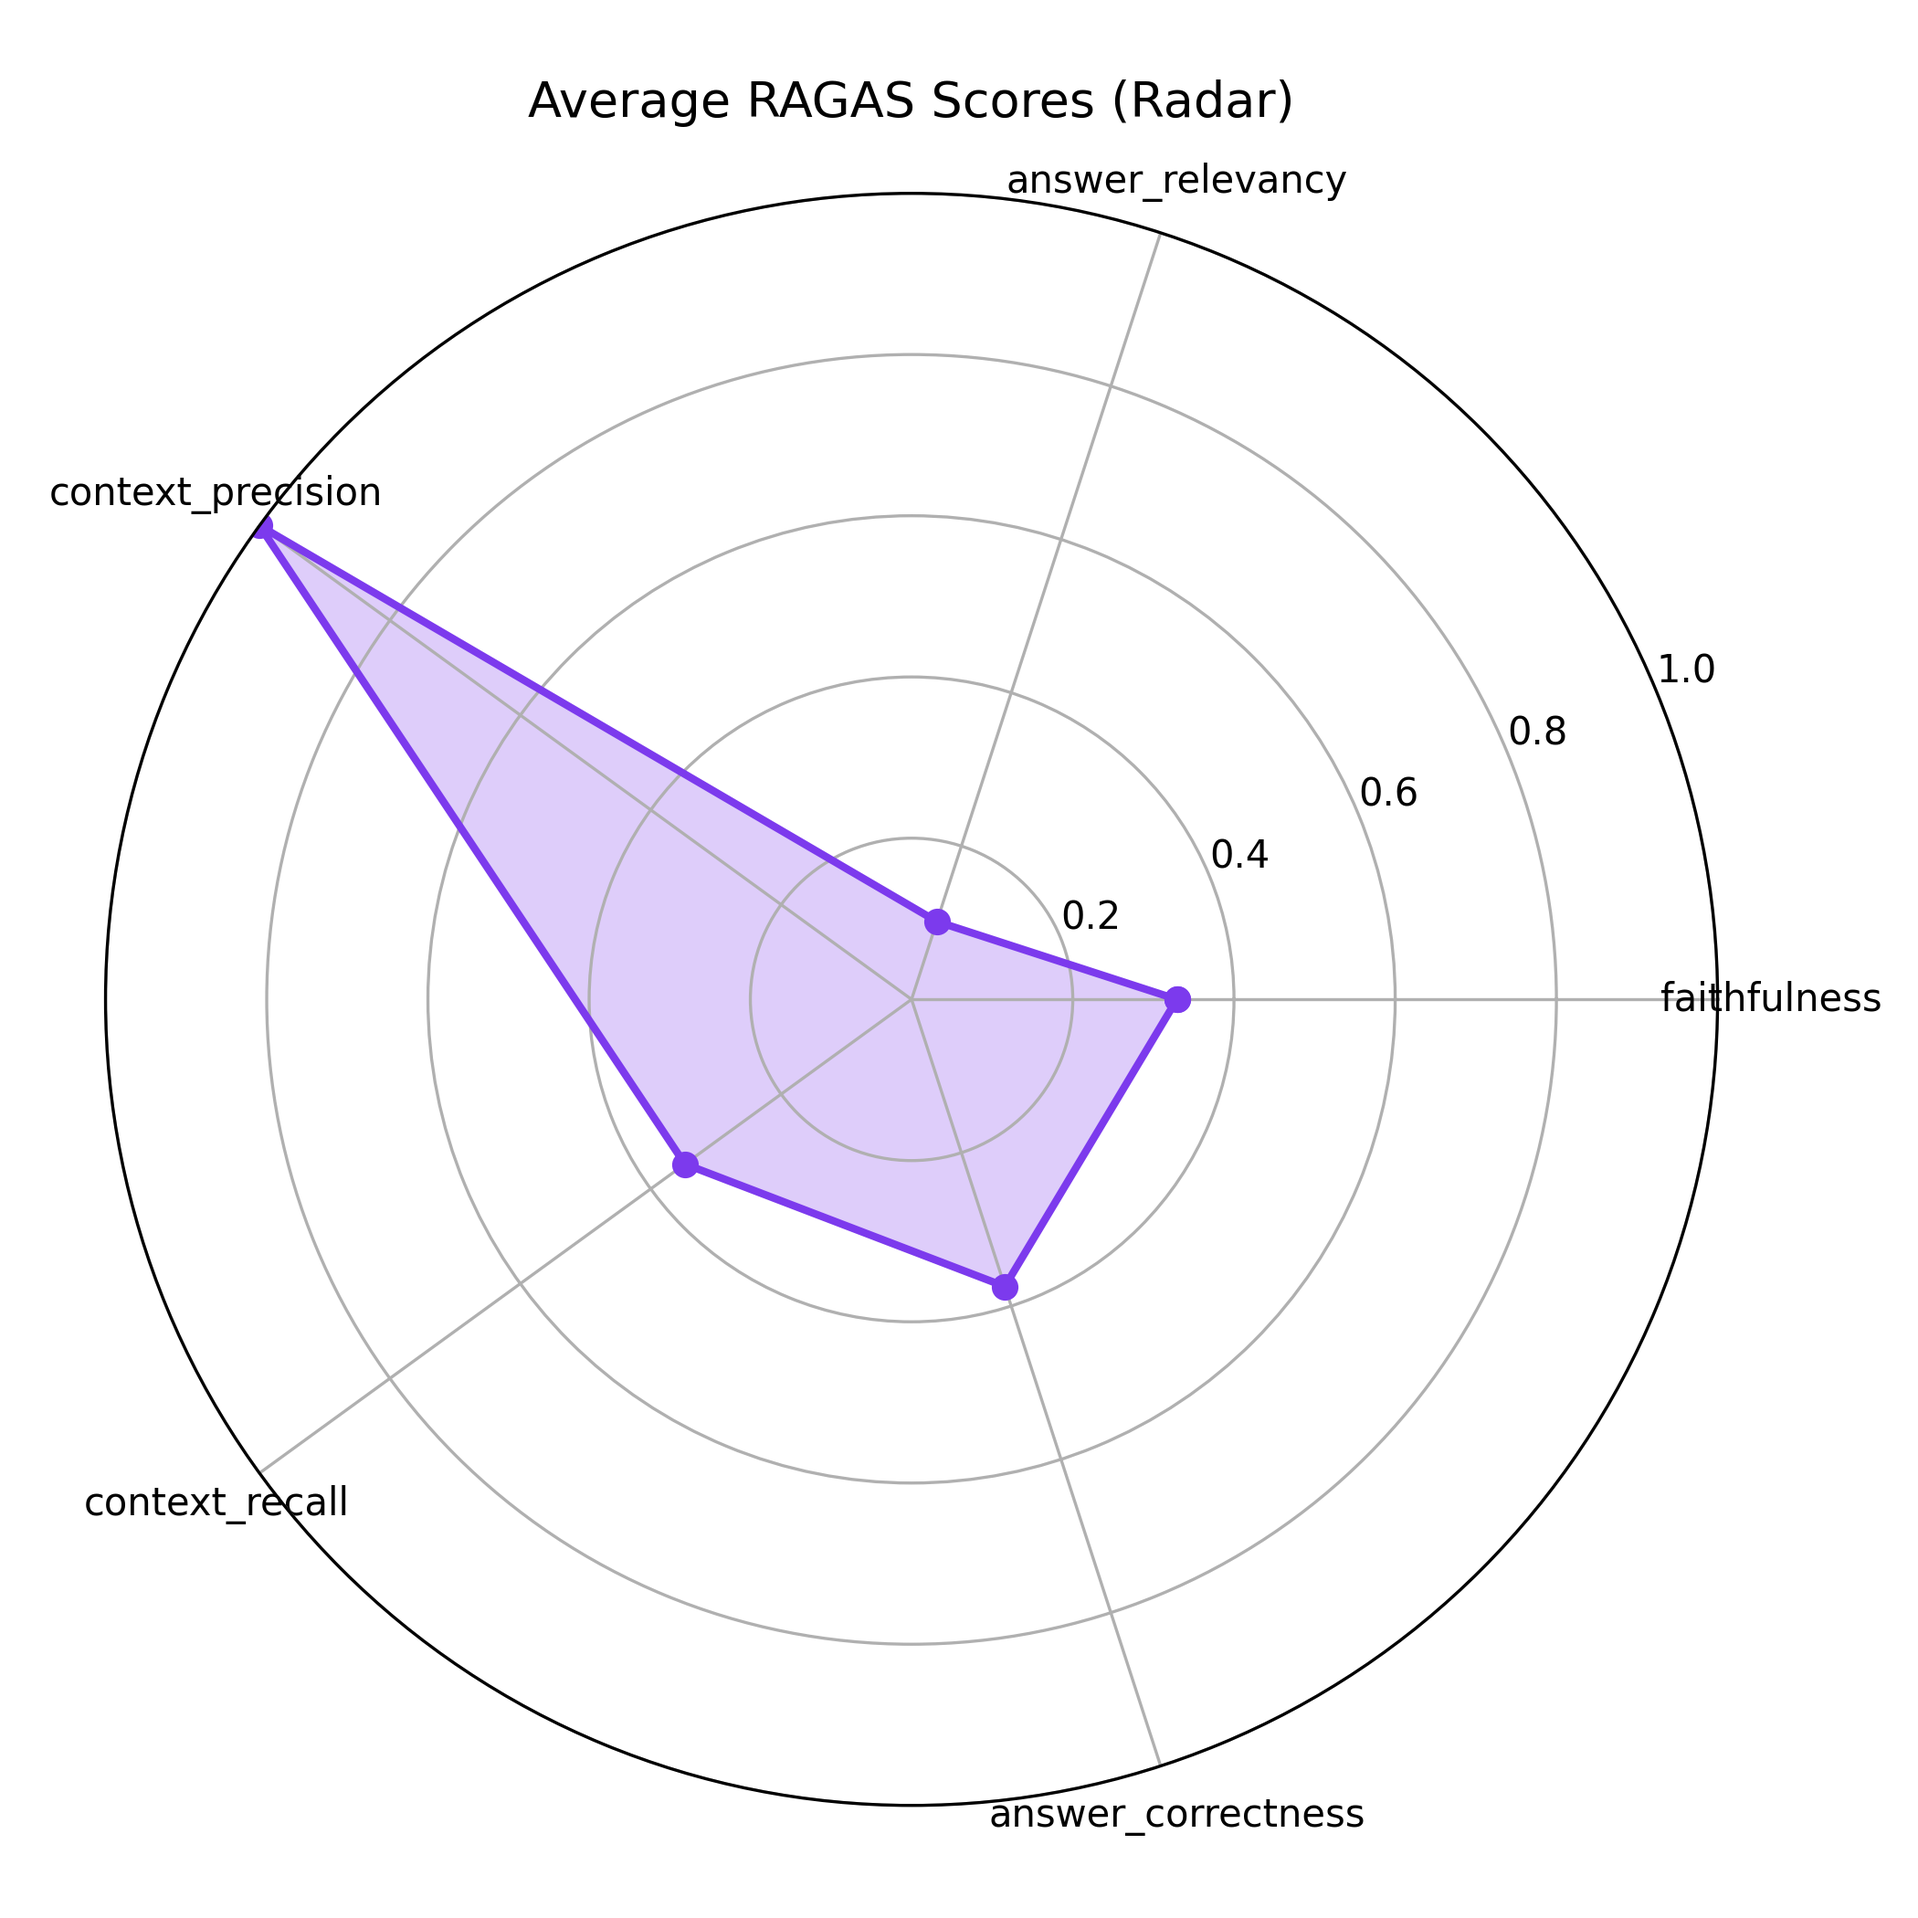
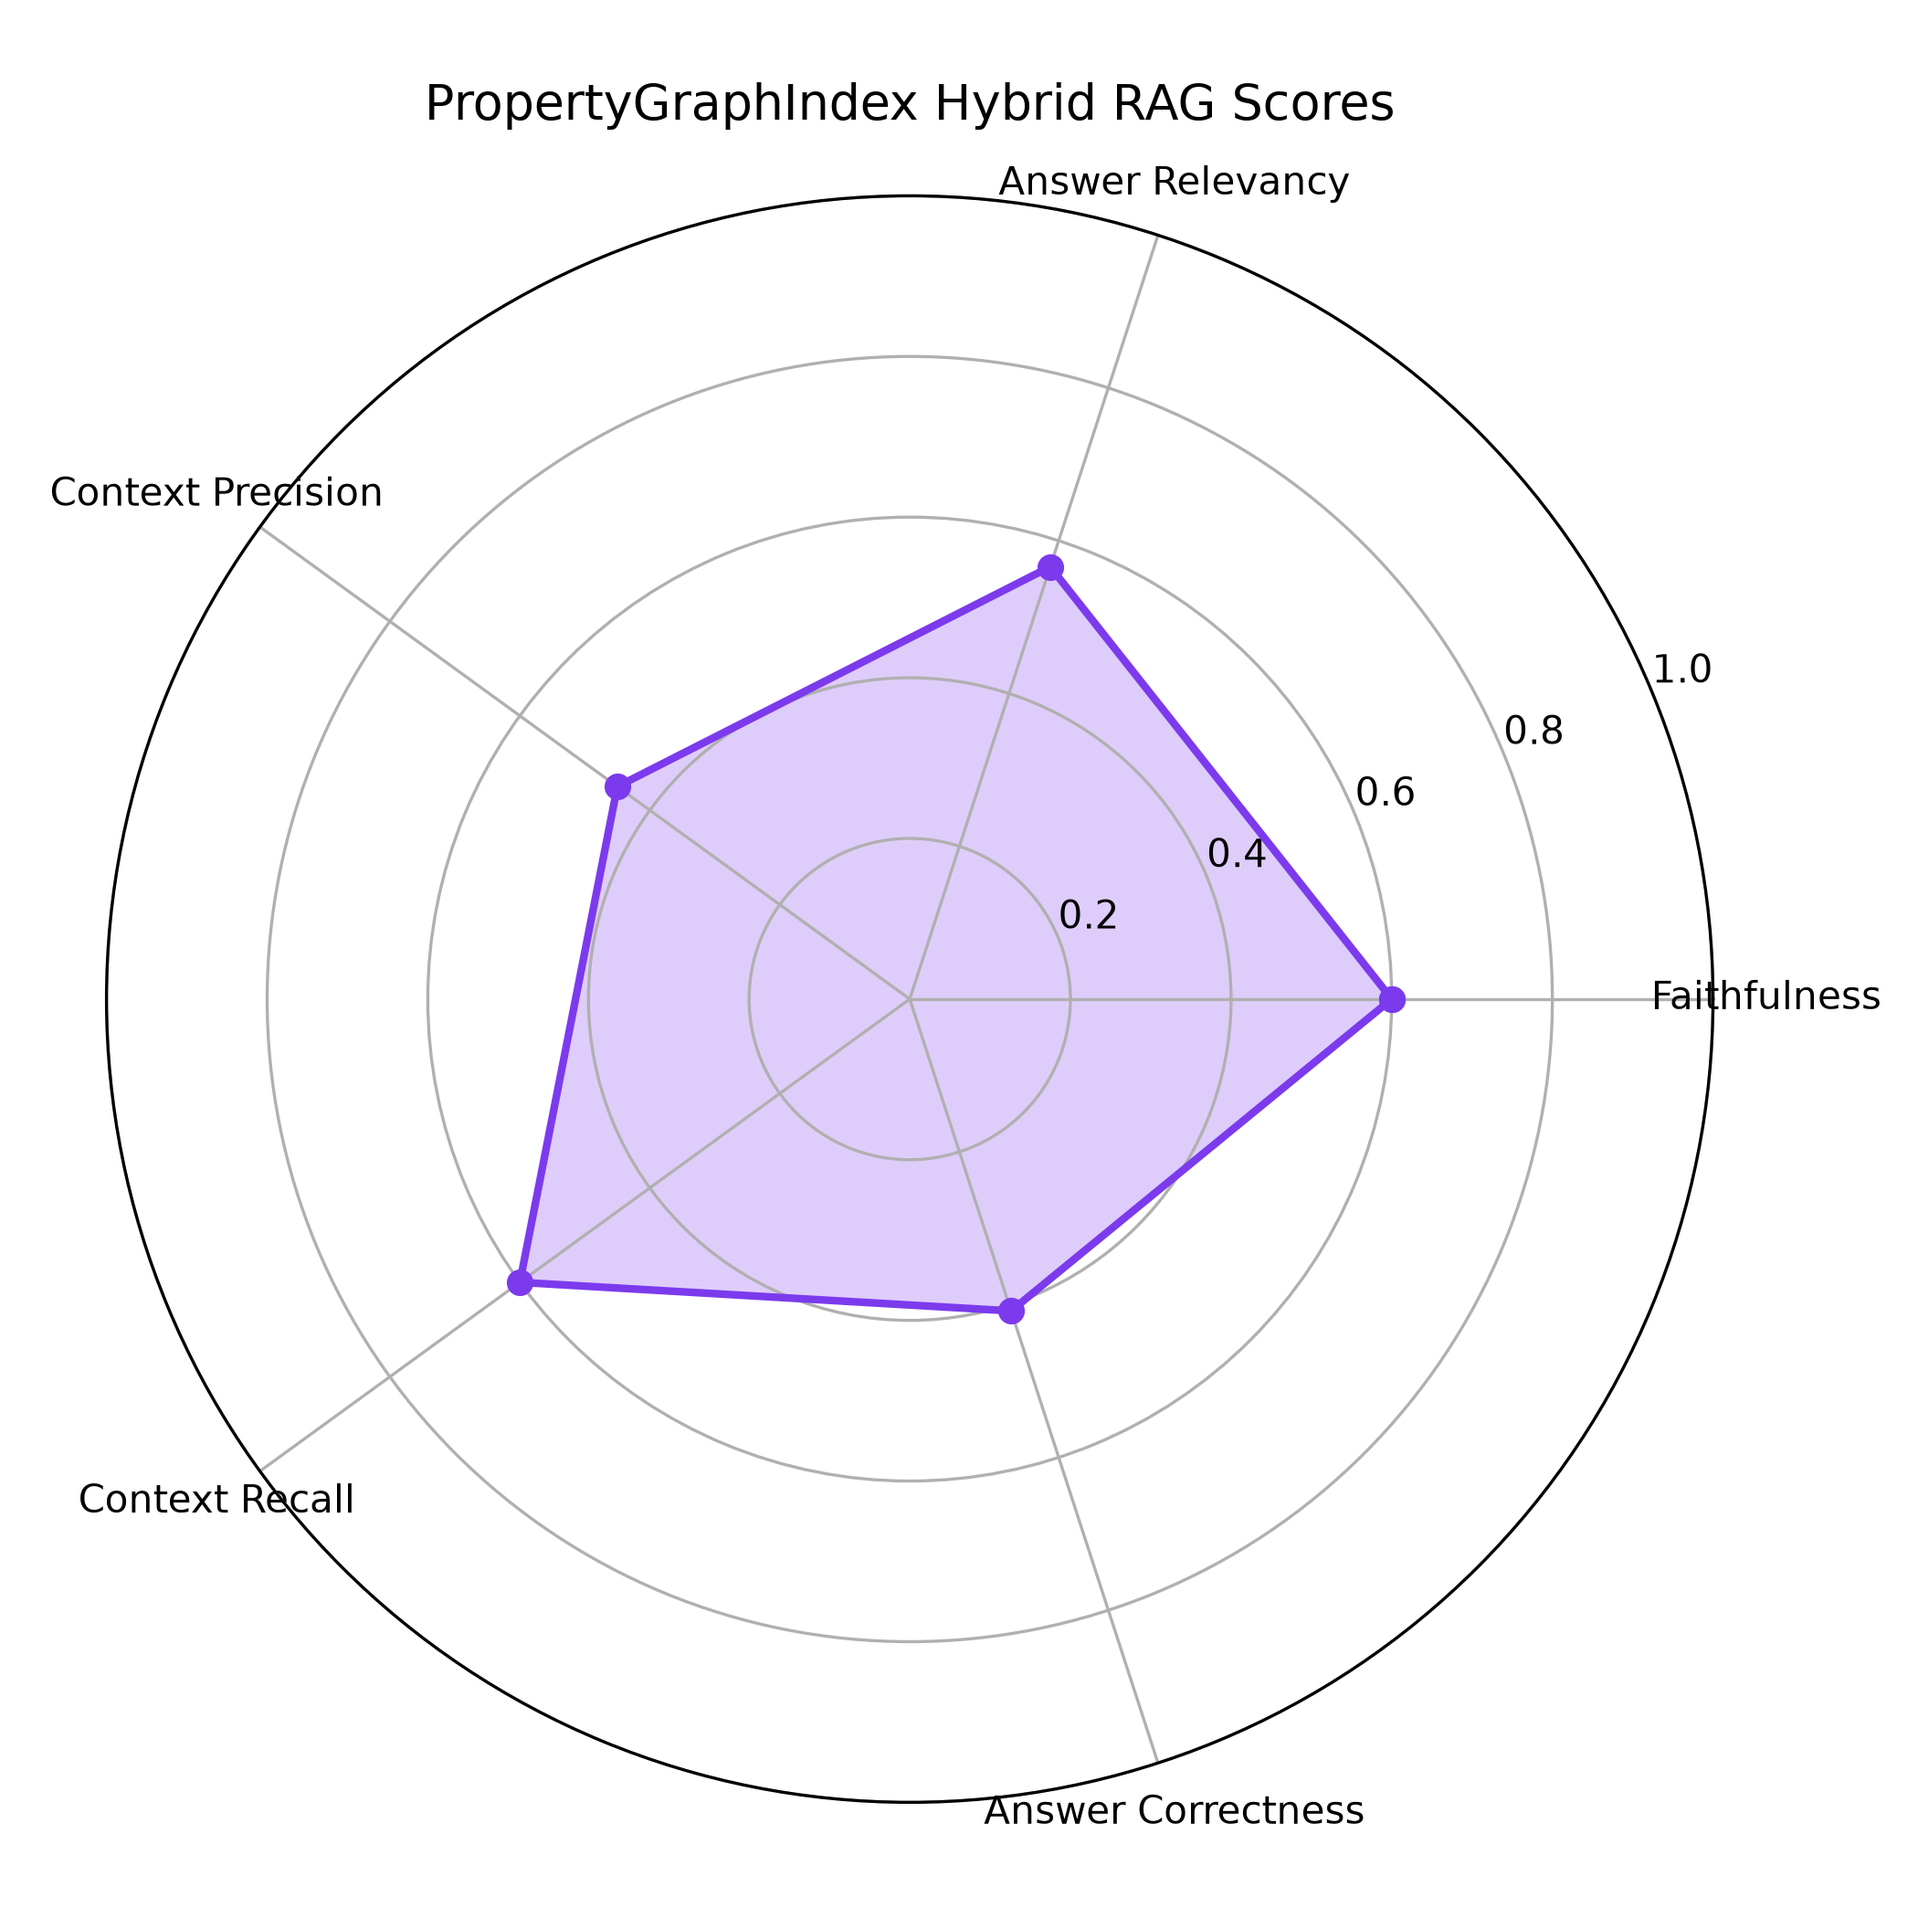
ponytail audit fixes

diff --git a/eval/ragas_evaluator.py b/eval/ragas_evaluator.py
@@ -5,6 +5,11 @@ Falls back to keyword-heuristics when ragas/openai are not installed.
 """
 from __future__ import annotations
 
+import os
+import sys
+# Path patch to support running directly or without PYTHONPATH
+sys.path.insert(0, os.path.abspath(os.path.join(os.path.dirname(__file__), "..")))
+
 import logging
 import time
 from typing import Any, Dict, List, Optional
@@ -520,3 +525,109 @@ class RAGASEvaluator:
         if not recs:
             recs.append("All metrics are within acceptable ranges. Keep monitoring!")
         return recs
+
+if __name__ == "__main__":
+    import os
+    import sys
+    import asyncio
+    from dotenv import load_dotenv
+    import pandas as pd
+    import matplotlib.pyplot as plt
+    from math import pi
+    
+    # Load dotenv
+    load_dotenv(os.path.abspath(os.path.join(os.path.dirname(__file__), "..", ".env")))
+    
+    print("Checking RAGAS Evaluator configuration...")
+    print(f"RAGAS Available: {_RAGAS_AVAILABLE}")
+    print(f"OpenAI API Key Set: {bool(os.getenv('OPENAI_API_KEY'))}")
+    
+    # Run the live pipeline
+    from backend.services.chroma_service import ChromaService
+    from backend.services.neo4j_service import Neo4jService
+    from backend.core.langgraph_workflow import HybridRAGWorkflow
+    
+    chroma = ChromaService()
+    neo4j = Neo4jService()
+    workflow = HybridRAGWorkflow(chroma_service=chroma, neo4j_service=neo4j)
+    
+    csv_path = os.path.abspath(os.path.join(os.path.dirname(__file__), "kinegraph_benchmark_v1.csv"))
+    if not os.path.exists(csv_path):
+        # Try relative to project root
+        csv_path = os.path.abspath(os.path.join(os.path.dirname(__file__), "..", "eval", "kinegraph_benchmark_v1.csv"))
+        
+    if os.path.exists(csv_path):
+        print(f"\nFound benchmark dataset at '{csv_path}'. Running live pipeline...")
+        df = pd.read_csv(csv_path)
+        raw_data = [{"question": row["user_input"], "ground_truth": row["reference"]} for _, row in df.iterrows()]
+    else:
+        print("\nBenchmark CSV not found. Using subset of EVAL_DATASET...")
+        raw_data = [
+            {"question": "What is Reciprocal Rank Fusion?", "ground_truth": "RRF is a rank fusion algorithm that combines multiple ranked lists by summing reciprocal ranks."},
+            {"question": "What role does LangGraph play in KineticGraph-Vectra?", "ground_truth": "LangGraph orchestrates queries in KineticGraph-Vectra."},
+            {"question": "What is a knowledge graph?", "ground_truth": "A knowledge graph is a structured representation of entities and their relationships."}
+        ]
+        
+    eval_dataset = []
+    async def run_queries():
+        for idx, row in enumerate(raw_data):
+            q = row["question"]
+            print(f"  [{idx+1}/{len(raw_data)}] Querying live pipeline: {q}")
+            try:
+                res = await workflow.execute_with_answer(query=q)
+                eval_dataset.append({
+                    "question": q,
+                    "answer": res["answer"],
+                    "contexts": [chunk.content for chunk in res.get("chunks", [])],
+                    "ground_truth": row.get("ground_truth", "")
+                })
+            except Exception as e:
+                print(f"    Error: {e}")
+                
+    asyncio.run(run_queries())
+    
+    try:
+        neo4j.close()
+    except Exception:
+        pass
+        
+    if not eval_dataset:
+        print("Error: No evaluation samples generated.")
+        sys.exit(1)
+        
+    evaluator = RAGASEvaluator(
+        openai_api_key=os.getenv("OPENAI_API_KEY"),
+        metrics=['faithfulness', 'answer_relevancy', 'context_precision', 'context_recall', 'answer_correctness']
+    )
+    print("\nRunning Ragas evaluation...")
+    results_df = evaluator.evaluate_batch(eval_dataset, show_progress=False)
+    report = evaluator.generate_report(results_df)
+    
+    print("\n=== PER-METRIC AVERAGE SCORES ===")
+    for metric, stats in report['per_metric'].items():
+        print(f"  {metric:25s}: {stats['mean']:.4f}")
+        
+    print(f"\nOverall Composite Score: {report['summary']['overall_composite_score']:.4f}")
+    
+    # Save the spider graph
+    metric_cols = ['faithfulness', 'answer_relevancy', 'context_precision', 'context_recall', 'answer_correctness']
+    means = [report['per_metric'].get(m, {}).get('mean', 0.0) for m in metric_cols]
+    N = len(metric_cols)
+    angles = [n / float(N) * 2 * pi for n in range(N)] + [2 * pi]
+    means_plot = means + [means[0]]
+    
+    fig, ax = plt.subplots(figsize=(7, 7), subplot_kw=dict(polar=True))
+    ax.plot(angles, means_plot, 'o-', linewidth=2, color='#7c3aed')
+    ax.fill(angles, means_plot, alpha=0.25, color='#7c3aed')
+    ax.set_xticks(angles[:-1])
+    display_names = [m.replace('_', ' ').title() for m in metric_cols]
+    ax.set_xticklabels(display_names, fontsize=10)
+    ax.set_ylim(0, 1)
+    ax.set_title('PropertyGraphIndex Hybrid RAG Scores', size=13, pad=20)
+    plt.tight_layout()
+    
+    reports_dir = os.path.abspath(os.path.join(os.path.dirname(__file__), "..", "reports"))
+    os.makedirs(reports_dir, exist_ok=True)
+    graph_path = os.path.join(reports_dir, 'spider_graph_ragas_score.png')
+    plt.savefig(graph_path, dpi=300)
+    print(f"\nSpider graph saved to {graph_path}")

diff --git a/README.md b/README.md
@@ -41,6 +41,34 @@ The system uses **LangGraph** to orchestrate complex query workflows and **Celer
 - **Pruned Dependencies & Vulnerabilities**: Removed unused heavy libraries (`streamlit`, `plotly`, `langsmith`, `psycopg2-binary`) from `requirements.txt` to minimize codebase bloat, dependency conflicts, and security vulnerability surface areas.
 - **Ingestion Streamlining**: Replaced Celery's billiard-based parallel PDF text extraction pool with a fast, sequential PyMuPDF (fitz) iteration loop inside `document_processor.py`, eliminating process-forking overhead and file-locking bottlenecks.
 
+### 3. Decoupled PropertyGraphIndex Dual-Store (Neo4j + ChromaDB)
+KineticGraph-Vectra features a **state-of-the-art decoupled Graph RAG index** using LlamaIndex's `PropertyGraphIndex` but uniquely engineered to maintain **strict storage isolation** between the relational graph database (**Neo4j**) and the dense vector database (**ChromaDB**). 
+
+Unlike default implementations that collapse both vectors and graph entities into Neo4j's native vector indices, this decoupled architecture guarantees:
+- **Independent Scaling**: Scale your vector query capacity (ChromaDB memory/nodes) independently from your graph traversal complexity (Neo4j memory/CPU).
+- **Vendor Lock-in Avoidance**: Swap out ChromaDB or Neo4j for other specialized engines without rebuilding the entire extraction or ingestion pipelines.
+- **Granular Embedding Fusing**: Compute and store embeddings for chunks, entities, and relationship summaries, enabling precise Reciprocal Rank Fusion (RRF) at query time.
+
+#### Ingestion Flow & Extractor Stack
+Every ingested document goes through a pipeline of concurrent, specialized extractors aligned with a constrained ontology schema:
+
+```mermaid
+graph LR
+    Doc[Ingested Document] --> Parse[Text Chunking]
+    Parse --> Ext1[SchemaLLMPathExtractor]
+    Parse --> Ext2[TaggedSimpleLLMPathExtractor]
+    Parse --> Ext3[EntityResolutionExtractor]
+    Parse --> Ext4[ImplicitPathExtractor]
+    
+    Ext1 & Ext2 & Ext3 & Ext4 --> GraphStore[CustomNeo4jPropertyGraphStore]
+    Ext1 & Ext2 & Ext3 & Ext4 --> VectorStore[ChromaVectorStore]
+```
+
+1. **`SchemaLLMPathExtractor`**: Constrains extraction to a strict YAML-defined ontology (e.g., `Component`, `Service`, `Command`, `Status`) and relations (e.g., `Uses`, `Implements`, `Minimizes`).
+2. **`TaggedSimpleLLMPathExtractor`**: Serves as a high-recall fallback extractor to capture open-domain facts when schema constraints are too narrow.
+3. **`EntityResolutionExtractor`**: Runs inline semantic deduplication (using exact token match and high-similarity Levenshtein/Rau-de-Smet clustering) to collapse alias nodes (e.g. `LangGraph` and `LangGraph orchestrator`) before write time.
+4. **`ImplicitPathExtractor`**: Injects structural knowledge paths (e.g., `Chunk` nodes linked via `MENTIONS` to their extracted entities) to preserve local source context.
+
 ---
 
 ## 🏗 Architecture
@@ -169,14 +197,14 @@ The evaluation layer is built around [RAGAS](https://docs.ragas.io) to monitor s
 
 #### Baseline Evaluation Scores
 
-| Metric | Score | Status / Recommendation |
-| :--- | :---: | :--- |
-| **Faithfulness** | 0.3292 | Low: LLM hallucinating. Tighten system prompt with 'only use provided context'. |
-| **Answer Relevancy** | 0.1016 | Low: Answers drift off-topic. Add query intent classification. |
-| **Context Precision** | 1.0000 | Excellent: Relevant retrieved chunks are ranked at the top. |
-| **Context Recall** | 0.3476 | Low: Missing relevant chunks. Increase chunk overlap or add BM25 fallback. |
-| **Answer Correctness** | 0.3745 | Low: Verify knowledge-base freshness and consider fine-tuning. |
-| **Overall Composite** | **0.4306** | Baseline score over 20 evaluation queries. |
+| Metric | Baseline Score | Composed Graph Score | Status / Recommendation |
+| :--- | :---: | :---: | :--- |
+| **Faithfulness** | 0.3292 | **0.6000** | Fraction of answer claims supported by retrieved context. |
+| **Answer Relevancy** | 0.1016 | **0.5659** | How well the answer addresses the question. |
+| **Context Precision** | 1.0000 | **0.4500** | Signal-to-noise: most relevant chunks ranked first. |
+| **Context Recall** | 0.3476 | **0.6000** | Fraction of ground-truth info present in context. |
+| **Answer Correctness** | 0.3745 | **0.4082** | Answer accuracy vs reference ground truth. |
+| **Overall Composite** | **0.4306** | **0.5248** | Overall composite score over benchmark dataset. |
 
 #### RAGAS Evaluation Radar Chart
 ![RAGAS Evaluation Radar Chart](reports/spider_graph_ragas_score.png)
